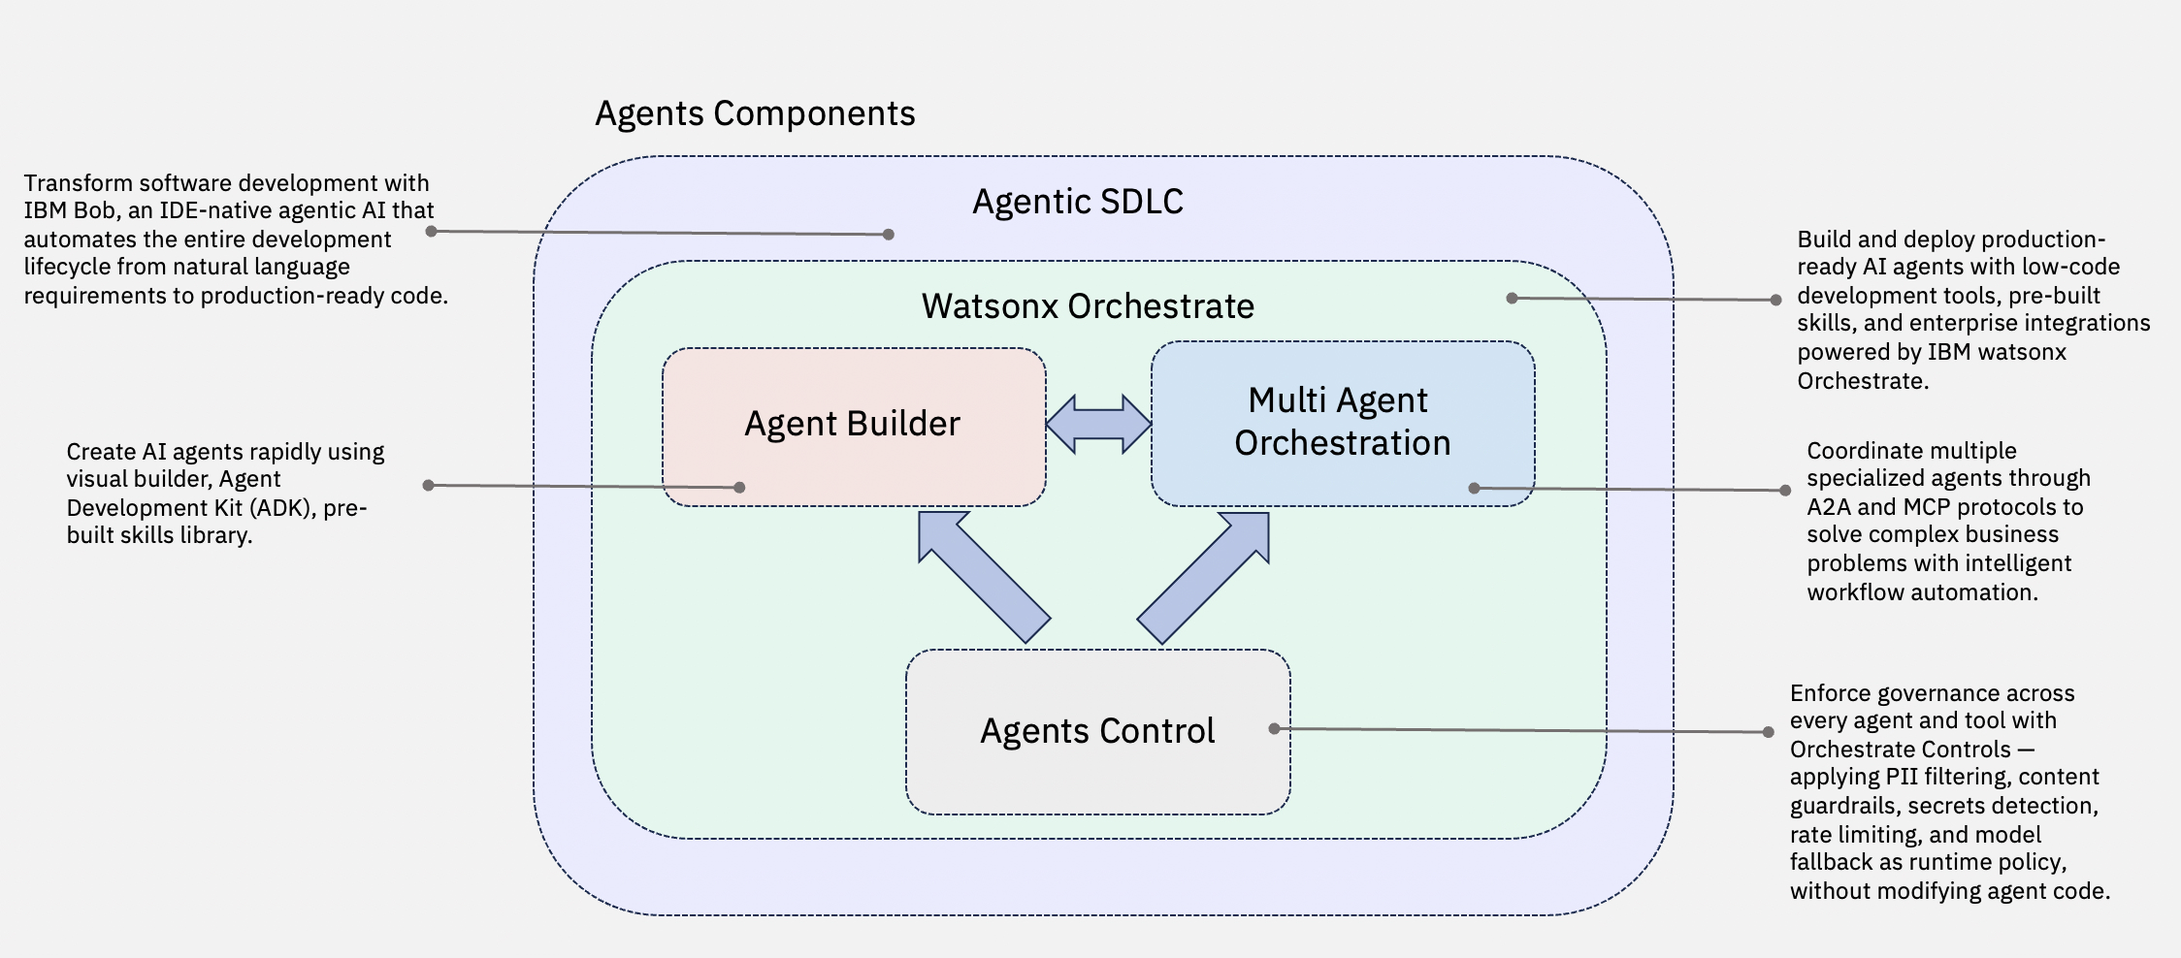
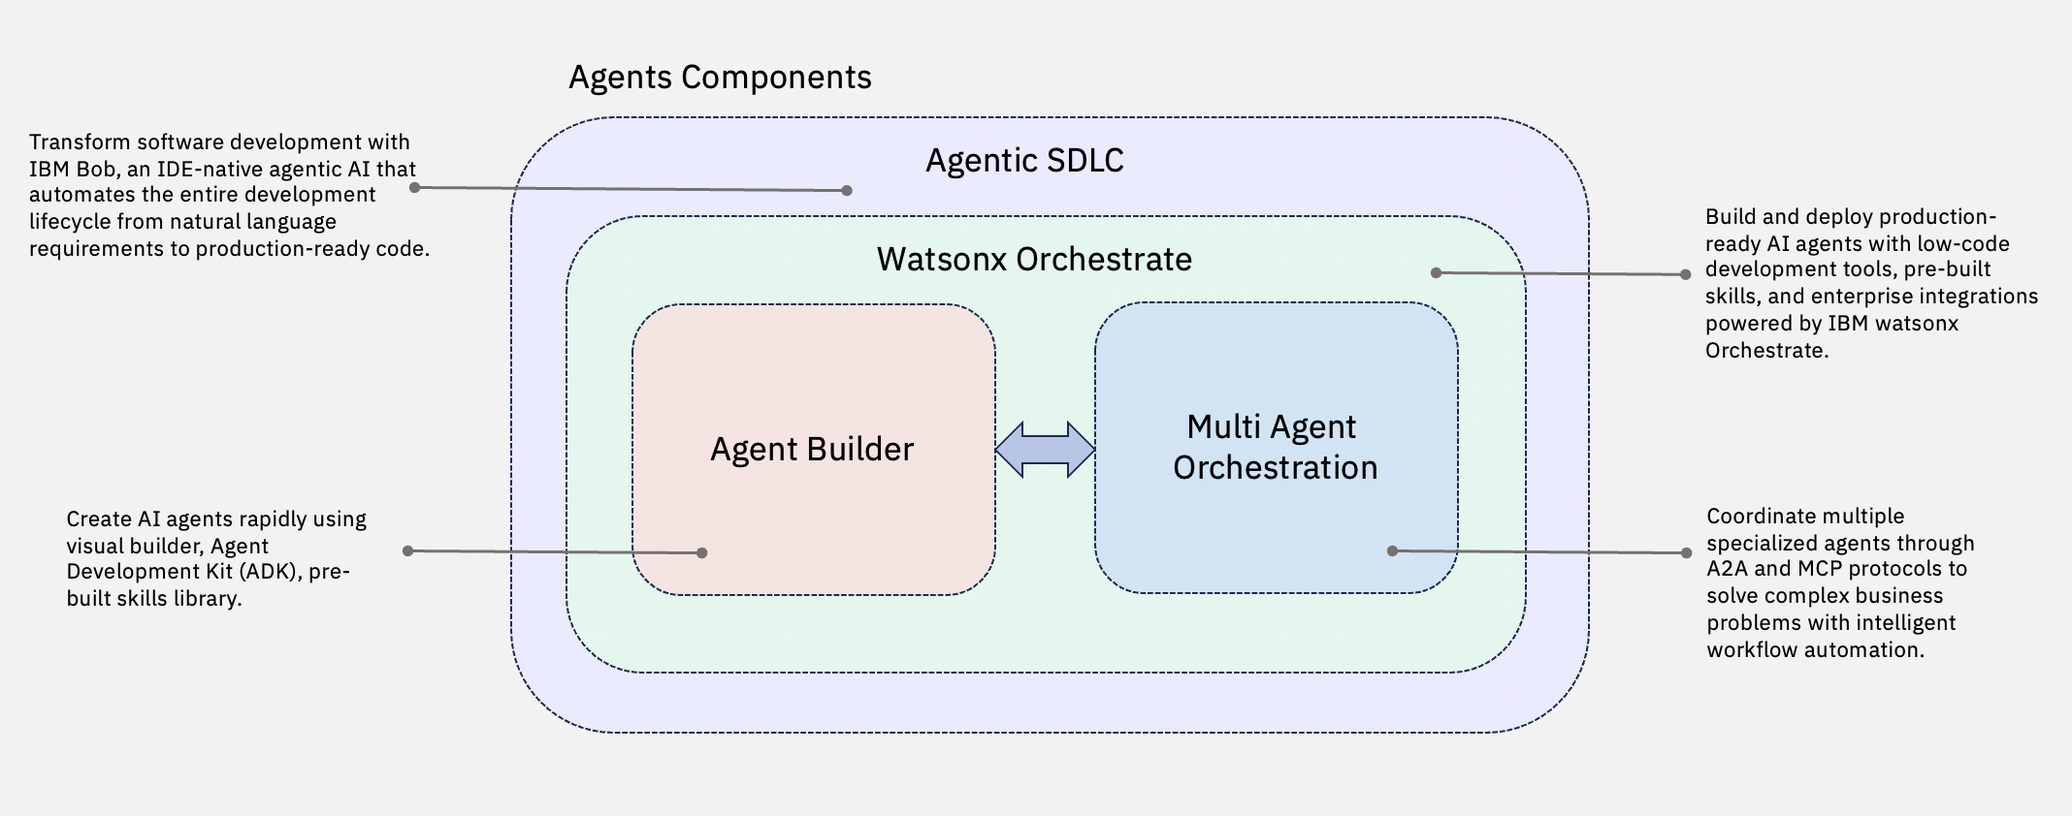
fixed the structure

diff --git a/docs-src/ai-core/ai-engineering/agentic-sdlc.md b/docs-src/ai-core/ai-engineering/agentic-sdlc.md
@@ -1,0 +1,103 @@
+# Agentic SDLC
+
+The **Agentic SDLC building block** is IBM Bob — an AI Agent purpose-built for the Software Development Lifecycle, built on a three-tier architecture that spans the entire software lifecycle, from planning and coding to testing, documentation, modernization, and CI/CD. 
+
+Unlike traditional coding assistants that stop at code generation, Bob coordinates specialized AI agents across every phase of software delivery, with parallel execution, background tasks, enterprise governance, and workflow automation built in. 
+
+Battle-tested at enterprise scale across IBM's own engineering teams, it is the development layer that runs beneath every building block — giving developers an AI partner to build, test, and deploy the agents, orchestration systems, trust frameworks, and enterprise capabilities that the rest of this platform delivers.
+
+![IBM Bob+ — AI Agent for the Software Development Lifecycle](images/bob+.png)
+
+## Why This Matters
+
+- **Coding is a fraction of the SDLC effort.** Planning, documentation, testing, security analysis, code review, refactoring, modernization, and CI/CD collectively consume far more developer time than writing new code — yet traditional AI coding assistants only address one step.
+- **Legacy codebases don't wait for AI tools to catch up.** Enterprises running Java, mainframe, IBM Z, and IBM i applications need modernization at scale — not one-off code suggestions, but structured, repeatable workflows that transform entire applications while preserving business logic.
+- **AI variability is a production risk at enterprise scale.** Ask the same AI to migrate an application on two different days and it returns two different approaches. For work spanning thousands of files and multiple phases, that variability is the whole problem — workflows give large-scale engineering changes a repeatable backbone.
+- **Context switching is where developer productivity dies.** Moving between IDE, documentation, Jira, and code reviews fragments attention. Bob embeds AI directly into the developer workflow — IDE-native, context-aware, and capable of running background tasks so developers stay in flow.
+- **Autonomous AI needs human control points.** Agents that write, edit, and execute commands across a codebase require approval workflows, rollback at every turn, audit logging, and enterprise governance — without these, AI-assisted development can't be approved for production use.
+
+## What's Covered
+
+| Area | What It Covers |
+|------|---------------|
+| **[Bob V2 Architecture](#bob-v2-architecture)** | The three-tier architecture (Agent / Harness / Clients) that powers Bob across every environment |
+| **[Agentic Development Modes](#agentic-development-modes)** | Agent, Plan, and Ask modes — when to use each across the full development lifecycle |
+| **[Key Capabilities](#key-capabilities)** | Parallel tool calling, subagents, background tasks, rollback, document support, and workflows |
+| **[Bob Skills & Modes](#bob-skills)** | AI-assisted workflows and skills for building across every building block in your IDE |
+
+---
+
+## Bob V2 Architecture
+
+Bob V2 is built on a three-tier architecture that cleanly separates reasoning from infrastructure from interface — enabling identical agent behavior across every client. 
+
+At the core is **The Agent** — the agentic loop where all reasoning, code generation, and tool execution happens. It supports parallel native tool calling (running multiple tools simultaneously rather than sequentially), subagents that handle self-contained tasks with their own clean context, and a 270k token context window for working across large codebases. 
+
+Beneath it, **The Harness** provides the shared infrastructure layer — authentication, logging, feature flags, and telemetry — so every client benefits from the same enterprise-grade foundation without duplicating that logic.
+
+| Component | Role | What It Means |
+|-----------|------|--------------|
+| **The Agent** | The agentic loop — all reasoning and code generation happens here | Behaves identically in every client — IDE, shell, and more to come |
+| **The Harness** | Shared infrastructure layer | Handles authentication, logging, feature flags, and telemetry across all clients |
+| **The Clients** | The interfaces developers interact with | IDE extension, Bob Shell, and future clients — with no duplicated logic between them |
+
+This architecture replaces V1's split codebase — where IDE and shell were built on separate foundations — with a single agent that runs everywhere. Settings, rules files, MCP servers, and skills carry over automatically on upgrade.
+
+---
+
+## Agentic Development Modes
+
+Bob V2 introduces three focused modes that cover the full development lifecycle — from understanding to planning to execution:
+
+| Mode | Purpose | Use When |
+|------|---------|----------|
+| **Agent** | Takes action and completes tasks with full agentic capabilities — writes, edits, runs commands, and drives the work end-to-end | Building features, fixing bugs, generating code, or any hands-on development task |
+| **Plan** | Gathers requirements, discovers context, checks understanding, and produces an actionable plan — without touching the codebase | Designing architecture, breaking down complex changes, or preparing before Agent executes |
+| **Ask** | Read-only explanation mode — analyzes architecture, explains logic, and answers questions without modifying any files | Understanding existing code, reviewing design decisions, or onboarding to a codebase |
+
+---
+
+## Key Capabilities
+
+| Capability | What It Does |
+|-----------|-------------|
+| **Subagents** | Spins up isolated agents for self-contained tasks — subagent works, returns only the summary, keeping the main context window clean |
+| **Multi-Model Routing** | Routes tasks to the most appropriate model (Granite, OpenAI, Claude, Gemini) based on capability, cost, and governance requirements |
+| **Skills** | Packaged AI capabilities that extend Bob's expertise for specific domains — install, configure, and manage skills directly from the skills tab without hand-editing files |
+| **Custom Modes** | Define specialized Bob personas with tailored instructions, tools, and behaviors for specific workflows — reusable across teams and projects |
+| **Enterprise Governance** | Approval workflows, rollback at every turn, custom rules, ignore files, audit logging, and usage analytics (Bobalytics) — AI-assisted development that meets enterprise standards |
+| **Document Support** | Reads `.docx`, `.pdf`, and `.xlsx` natively — drop a spec or design doc into the conversation and Bob works from it directly |
+| **Parallel Tool Calling** | Runs multiple tools simultaneously — file reads, searches, and analysis in one turn instead of sequentially. Tasks that took 30s in V1 finish in under 10s |
+| **Background Tasks** | Run multiple tasks in parallel without holding the session — each task carries its own thread and context, switch between them without losing state |
+| **Rollback** | Tracks file state per task, per conversation turn, and per individual tool call — any point can be restored, works without git |
+| **Workflows** | Defines repeatable multi-phase engineering processes — some steps automated, some AI-driven, some requiring human approval — giving large-scale work a structured, consistent backbone |
+
+---
+
+## Use Cases
+
+| Use Case | What Bob Does |
+|----------|--------------|
+| **AI-Powered Planning** | Bob analyzes requirements, breaks work into tasks, generates implementation plans, recommends architectures, and estimates effort — before a single line of code is written |
+| **Full Application Generation** | From a natural language description, Bob generates the full application — architecture, endpoints, business logic, tests, and documentation — as a complete, production-ready project |
+| **Feature Development & Codebase Onboarding** | Bob uses Ask mode to analyze architecture, dependencies, and patterns in the existing codebase — then switches to Plan to design the change and Agent to implement it. Works equally for onboarding a new developer or delivering a new feature with confidence |
+| **Legacy Modernization** | Bob inspects legacy Java, IBM Z, or IBM i applications, applies structured transformation workflows, generates migration reports, and runs compatibility validation — preserving business logic throughout |
+| **Debugging & Root Cause Analysis** | Bob reviews logs, traces the call chain, identifies root cause, and suggests a fix — without the developer leaving the IDE |
+| **Documentation** | Bob analyzes the entire project structure, generates README files, API docs, architecture documentation, and inline comments — and keeps them synchronized as code changes |
+| **Code Review & Security** | Bob reviews pull requests for coding standards, security vulnerabilities, performance concerns, and maintainability — returning structured, actionable feedback |
+| **Test Automation** | Bob generates unit tests, integration tests, mock objects, and edge cases from existing code — reducing manual test authoring across the lifecycle |
+| **CI/CD Pipeline** | Bob automates build, test, and release workflows — generating pipeline configs, troubleshooting failures, writing commit messages, and preparing PR descriptions without manual intervention |
+
+---
+
+## Resources
+
+| Resource | Description |
+|----------|-------------|
+| **[Bob Website](https://bob.ibm.com/)** | Learn more about IBM Bob and its capabilities |
+| **[Download Bob](https://bob.ibm.com/download)** | Get started with IBM Bob for VS Code |
+| **[Bob Skills](https://github.com/ibm-self-serve-assets/building-blocks/tree/main/ibm-bob/skills)** | Browse and install pre-built Bob skills for building blocks across AI, data, and automation |
+| **[Bob Modes](https://github.com/ibm-self-serve-assets/building-blocks/tree/main/ibm-bob/modes)** | Browse custom Bob modes for specialized workflows across every building block |
+
+!!! info "GitHub Repository"
+    [Agentic SDLC Assets](https://github.com/ibm-self-serve-assets/building-blocks/tree/main/agents/agentic-sdlc)

diff --git a/docs-src/ai-core/index.md b/docs-src/ai-core/index.md
@@ -2,15 +2,15 @@
 
 Production-ready enterprise AI requires more than models — it requires agents that take action, systems that can be trusted, and guardrails that keep everything within bounds. The **AI Core Building Blocks** provide the foundation to make that possible.
 
-This section brings together three pillars — **Agents**, **AI Trust**, and **Agentic SDLC** — covering everything from building and orchestrating AI agents to evaluating and governing them in production, with **IBM Bob** as the AI development partner that accelerates delivery across all of them.
+This section brings together three pillars — **Agents**, **AI Trust**, and **AI Engineering** — covering everything from building and orchestrating AI agents to governing them in production and accelerating the full software development lifecycle with IBM Bob.
 
 ## Overview
 
 The AI Core section is organized into three pillars that work together across the full AI lifecycle:
 
 - **Agents** — Build, orchestrate, and deploy intelligent AI agents using IBM watsonx Orchestrate. Covers the full journey from creating individual agents with the ADK to coordinating multi-agent systems across enterprise systems and frameworks.
-- **AI Trust** — Evaluate, monitor, govern, and protect AI in production using IBM watsonx.governance. Covers model evaluation, agent observability, real-time guardrails, and regulatory compliance.
-- **Agentic SDLC** — IBM Bob, an AI Agent purpose-built for the Software Development Lifecycle. Spans planning, coding, testing, documentation, modernization, and CI/CD — and serves as the development partner across every building block on this platform.
+- **AI Trust** — Enforce, evaluate, monitor, and govern AI in production. Covers agent controls, model evaluation, agent observability, real-time guardrails, and regulatory compliance — powered by IBM watsonx.governance and IBM watsonx Orchestrate.
+- **AI Engineering** — IBM Bob, an AI Agent purpose-built for the Software Development Lifecycle. Spans planning, coding, testing, documentation, modernization, and CI/CD — the development partner across every building block on this platform.
 
 Every building block in this section comes with purpose-built **Bob Skills and Custom Modes** — giving developers an AI-assisted workflow to build, configure, and deploy each capability faster, directly from their IDE.
 
@@ -24,24 +24,33 @@ Beyond AI Core, **IBM Bob** serves as the development partner across the entire 
 
 ### Agents
 
-Build, orchestrate, and deploy intelligent AI agents using IBM watsonx Orchestrate and IBM Bob.
+Build, orchestrate, and deploy intelligent AI agents using IBM watsonx Orchestrate.
 
 | Building Block | What It Does |
 |---------------|-------------|
 | **[Agent Builder](agents/agent-builder.md)** | Create and deploy LLM-backed, tool-calling agents using the ADK — Python SDK and CLI for the full agent lifecycle from local development to production |
 | **[Multi-Agent Orchestration](agents/multi-agent-orchestration.md)** | Coordinate wxO agents with each other and with external agents (LangChain, OpenAI, CrewAI) via A2A, Chat Completions, and AI Gateway |
-| **[Agentic SDLC](agents/agentic-sdlc.md)** | IBM Bob — an AI Agent purpose-built for the Software Development Lifecycle, spanning planning, coding, testing, documentation, modernization, and CI/CD |
 
 ### AI Trust
 
-Evaluate, monitor, govern, and protect AI in production using IBM watsonx.governance.
+Enforce, evaluate, monitor, and govern AI in production using IBM watsonx.governance and IBM watsonx Orchestrate.
 
 | Building Block | What It Does |
 |---------------|-------------|
+| **[Agent Controls](agents/agent-controls.md)** | Enforce safety, compliance, and reliability policies across agents, tools, and models — PII filtering, content guardrails, secrets detection, SQL injection prevention, rate limiting, and model fallback — as configuration, not code |
 | **[Model Evaluation](ai-trust/model-evaluation.md)** | Evaluate AI and ML models for performance quality, fairness, reliability, drift, and bias throughout the AI lifecycle |
 | **[Agent Ops](ai-trust/agent-ops.md)** | Evaluate, observe, and optimize AI agents — from benchmarking and red-teaming to cost, latency, and token observability |
 | **[Real-Time Guardrails](ai-trust/real-time-guardrails.md)** | Enforce safety boundaries at input and output — blocking harmful content, PII, jailbreaks, and hallucinations with configurable PASS/FLAG/BLOCK thresholds |
 | **[AI Compliance](ai-trust/ai-compliance.md)** | Map AI use cases to regulations (EU AI Act, NIST AI RMF), manage risk assessments, and report compliance posture across the enterprise |
+
+### AI Engineering
+
+Transform software development with IBM Bob — an AI Agent purpose-built for the entire Software Development Lifecycle.
+
+| Building Block | What It Does |
+|---------------|-------------|
+| **[Agentic SDLC](ai-engineering/agentic-sdlc.md)** | IBM Bob — an IDE-native AI Agent spanning planning, coding, testing, documentation, modernization, and CI/CD — the development partner across every building block on this platform |
+| **[Code Modernization](ai-engineering/code-modernization.md)** | Transform legacy Java, mainframe, IBM Z, and IBM i applications into modern cloud-native systems using AI-assisted analysis, structured transformation workflows, and automated validation *(coming soon)* |
 
 ---
 

diff --git a/docs-src/ai-core/ai-engineering/index.md b/docs-src/ai-core/ai-engineering/index.md
@@ -1,0 +1,26 @@
+# AI Engineering
+
+AI Engineering provides the development layer that spans the entire software lifecycle — from planning and coding to testing, documentation, modernization, and CI/CD. Powered by **IBM Bob**, it gives developers an AI-native partner that accelerates every phase of software delivery across all building blocks on this platform.
+
+Two forces are reshaping how enterprises build and maintain software. The first is the rise of agentic AI — where autonomous agents, orchestration systems, and AI-driven workflows are now core engineering deliverables, not experiments. The second is the weight of legacy — decades of business logic embedded in Java monoliths, mainframe COBOL, IBM Z, and IBM i systems that enterprises cannot abandon but cannot afford to leave untouched.
+
+**Agentic SDLC** addresses the first: giving development teams an IDE-native AI partner that handles every phase of building new software — from requirements and architecture through code generation, testing, documentation, and CI/CD — so teams ship faster without sacrificing quality or governance.
+
+**Code Modernization** addresses the second: using IBM Bob's structured transformation workflows to analyze legacy codebases, map dependencies, apply incremental migrations, and validate that business logic survives the transition — turning multi-year modernization programmes into repeatable, AI-accelerated delivery.
+
+Together, they cover the full engineering surface — building what's next while systematically retiring what's holding the enterprise back.
+
+## Building Blocks
+
+| Building Block | What It Does |
+|---------------|-------------|
+| **[Agentic SDLC](agentic-sdlc.md)** | Transform software development with IBM Bob, an IDE-native agentic AI that automates the entire software development lifecycle from intent to production-ready code |
+| **[Code Modernization](code-modernization.md)** | Transform legacy Java, mainframe, IBM Z, and IBM i applications into modern cloud-native systems using AI-assisted analysis, structured transformation workflows, and automated validation — *(coming soon)* |
+
+## Getting Started
+
+1. Choose the building block that matches your current need.
+2. Check **bob-modes** for AI-assisted development workflows.
+
+!!! info "GitHub Repository"
+    [AI Engineering Building Blocks](https://github.com/ibm-self-serve-assets/building-blocks/tree/main/agents/agentic-sdlc)

diff --git a/docs-src/ai-core/ai-engineering/code-modernization.md b/docs-src/ai-core/ai-engineering/code-modernization.md
@@ -1,0 +1,29 @@
+# Code Modernization
+
+!!! warning "Work in Progress"
+    This building block is currently under development. Content, capabilities, and resources will be added shortly.
+
+The **Code Modernization building block** helps enterprises transform legacy applications into modern, cloud-native systems — using IBM Bob to analyze existing codebases, apply structured transformation workflows, and accelerate migration while preserving business logic.
+
+## Why This Matters
+
+- **Legacy systems slow down every new initiative.** Applications built on Java, mainframe, IBM Z, and IBM i carry decades of business logic that can't simply be discarded — but they also block adoption of modern architectures, cloud platforms, and AI capabilities.
+- **Manual modernization is slow, risky, and expensive.** Traditional rewrite or refactoring projects run for years, often fail, and risk breaking the business logic embedded in the original code.
+- **AI-assisted modernization changes the economics.** Structured, repeatable workflows driven by IBM Bob can analyze entire codebases, generate migration reports, apply transformations, and validate compatibility — at a pace and scale no manual approach can match.
+
+## What's Covered
+
+!!! note "Coming Soon"
+    Detailed capability documentation, architecture diagrams, use cases, and Bob Skills & Modes for Code Modernization are in progress.
+
+| Area | What It Will Cover |
+|------|--------------------|
+| **Legacy Analysis** | Automated codebase scanning, dependency mapping, and technical debt assessment |
+| **Transformation Workflows** | Structured, repeatable migration patterns for Java, IBM Z, IBM i, and mainframe applications |
+| **Validation & Testing** | Compatibility checks, regression test generation, and business logic preservation verification |
+| **Bob Skills & Modes** | AI-assisted modernization workflows directly from your IDE |
+
+## Getting Started
+
+!!! info "GitHub Repository"
+    [Code Modernization Assets](https://github.com/ibm-self-serve-assets/building-blocks/tree/main/agents/agentic-sdlc) — *repository link will be updated when assets are published*

diff --git a/docs-src/ai-core/agents/index.md b/docs-src/ai-core/agents/index.md
@@ -14,8 +14,6 @@ The Agents building blocks provide ready-to-use accelerators that make it easier
 |---|---|
 | **[Agent Builder](agent-builder.md)** | Create and deploy autonomous AI agents that interact with enterprise applications, tools, and data using the watsonx Orchestrate Agentic Development Kit (ADK) |
 | **[Multi-Agent Orchestration](multi-agent-orchestration.md)** | Coordinate multiple AI agents to collaborate intelligently on complex enterprise workflows, with support for external system integration through workflows, MCP and A2A protocols |
-| **[Agent Controls](agent-controls.md)** | Enforce safety, compliance, and reliability policies across agents, tools, and models — PII filtering, content guardrails, secrets detection, SQL injection prevention, rate limiting, and model fallback — as configuration, not code |
-| **[Agentic SDLC](agentic-sdlc.md)** | Transform software development with IBM Bob, an IDE-native agentic AI that automates the entire software development lifecycle from intent to production-ready code |
 
 ## Getting Started
 

diff --git a/docs-src/ai-core/ai-trust/index.md b/docs-src/ai-core/ai-trust/index.md
@@ -10,6 +10,7 @@ The AI Trust building blocks provide frameworks, production-ready code samples, 
 
 | Building Block | What It Does |
 |---------------|-------------|
+| **[Agent Controls](../agents/agent-controls.md)** | Enforce safety, compliance, and reliability policies across agents, tools, and models — PII filtering, content guardrails, secrets detection, SQL injection prevention, rate limiting, and model fallback — as configuration, not code |
 | **[Model Evaluation](model-evaluation.md)** | Evaluate your AI and ML models for performance quality, fairness, reliability, drift, and bias |
 | **[Agent Ops](agent-ops.md)** | Evaluate, observe, and optimize your AI agents throughout the lifecycle |
 | **[Real-Time Guardrails](real-time-guardrails.md)** | Enforce safety boundaries and operational constraints to keep AI applications within desired behavior in production |
